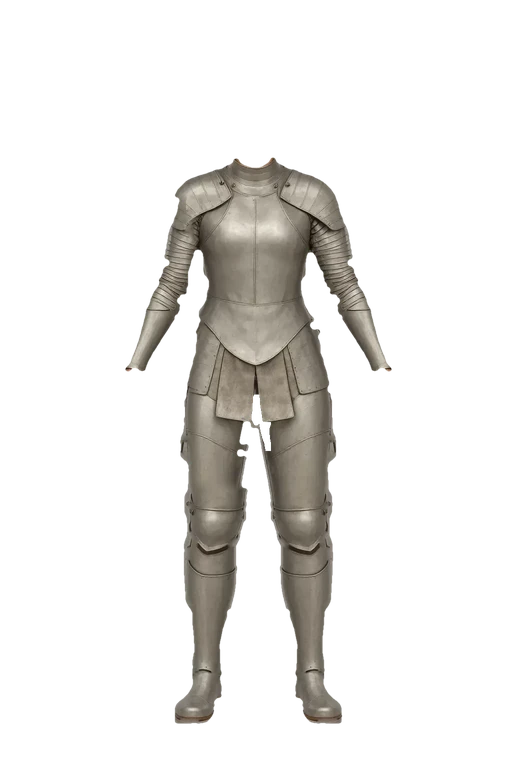
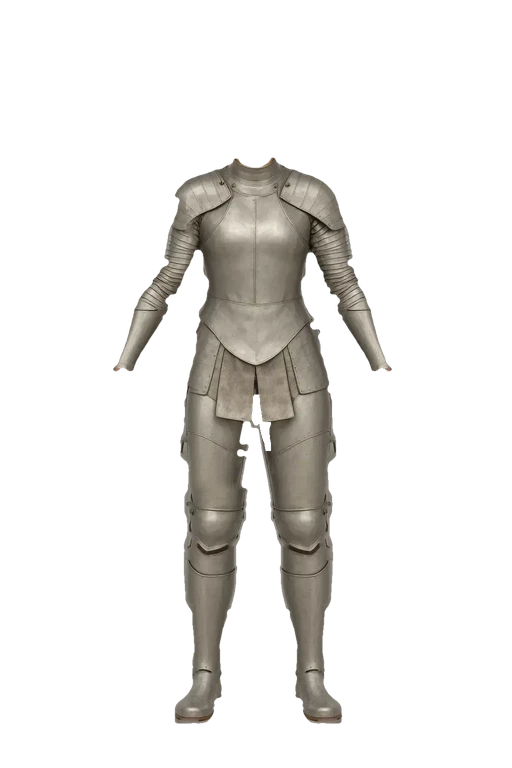
Žena: gotický plát – levé předloktí posunuté na paži, manžety dokreslené, ruka navazuje pod manžetou
Claude-Session: https://claude.ai/code/session_01Q25kmxKucwLhnUcj4Ap4v4

Changed region(s): [[0.2188, 0.3438, 0.375, 0.5]]

diff --git a/nastroje/manzeta_na_ruku.py b/nastroje/manzeta_na_ruku.py
@@ -1,0 +1,35 @@
+"""Konec rukávu (manžeta) zbroje se plynulým zkosením předloktí posune na střed zápěstí těla pod ním; tmavé zuby na okraji pryč.
+python3 nastroje/manzeta_na_ruku.py <vrstva> [rady=90]"""
+import sys
+import numpy as np, cv2
+from PIL import Image
+from pathlib import Path
+D = Path("img/postava"); n = sys.argv[1]; N = int(sys.argv[2]) if len(sys.argv) > 2 else 90
+sx = "zena" if "-zena-" in n else "muz"
+k = np.array(Image.open(D / f"{n}.webp").convert("RGBA")); A = k[..., 3] > 100
+T = np.array(Image.open(D / f"postava-telo-{sx}.webp").convert("RGBA"))[..., 3] > 100
+H, W = A.shape; ys, xs = np.mgrid[:H, :W].astype(np.float32)
+def useky(r):
+    x = np.where(r)[0]
+    if not len(x): return []
+    c = np.where(np.diff(x) > 1)[0]; return list(zip(np.r_[x[0], x[c + 1]], np.r_[x[c], x[-1]]))
+mx = xs.copy()
+for lev in (True, False):
+    sd = (xs[0] < 512 - 190) if lev else (xs[0] > 512 + 190)
+    zz = A & sd[None, :]; zz[:600] = False
+    ye = np.where(zz.any(1))[0].max()
+    cut = lambda y, M: max([u for u in useky(M[y] & sd) ], key=lambda u: u[1] - u[0])
+    a0, b0 = cut(ye - 12, zz); ba, bb = cut(ye + 4, T & ~A)
+    sh = (ba + bb) / 2 - (a0 + b0) / 2
+    w = np.clip((ys - (ye - N)) / N, 0, 1)
+    reg = sd[None, :] & (ys > ye - N - 5) & (ys < ye + 10)
+    mx = np.where(reg, mx - sh * w, mx)
+    print(n, "L" if lev else "P", "konec", ye, "posun", round(sh, 1))
+out = cv2.remap(k, mx.astype(np.float32), ys, cv2.INTER_LINEAR, borderMode=cv2.BORDER_CONSTANT, borderValue=0)
+A2 = out[..., 3] > 100; l = out[..., :3].astype(np.float32).mean(2); med = np.median(l[A2])
+for lev in (True, False):
+    sd = (xs[0] < 512 - 190) if lev else (xs[0] > 512 + 190)
+    zz = A2 & sd[None, :]; zz[:600] = False; ye = np.where(zz.any(1))[0].max()
+    d = zz & (ys > ye - 14) & (l < med * 0.5)
+    out[cv2.dilate(d.astype(np.uint8), np.ones((3, 3), np.uint8)) > 0, 3] = 0
+Image.fromarray(out).save(D / f"{n}.webp", "WEBP", quality=92); Image.fromarray(out).resize((512, 768), Image.LANCZOS).save(D / f"{n}-m.webp", "WEBP", quality=90)

diff --git a/nastroje/predlokti_posun.py b/nastroje/predlokti_posun.py
@@ -1,0 +1,31 @@
+"""Předloktí zbroje (oddělené od trupu) posune vodorovně, aby sedělo na paži těla; posun plynule roste od y0 do y1 a pak drží.
+python3 nastroje/predlokti_posun.py <vrstva> L|P y0 y1 posun [y_konec=760]"""
+import sys
+import numpy as np, cv2
+from PIL import Image
+from pathlib import Path
+D = Path("img/postava"); n, s = sys.argv[1], sys.argv[2]; y0, y1, P = int(sys.argv[3]), int(sys.argv[4]), float(sys.argv[5])
+k = np.array(Image.open(D / f"{n}.webp").convert("RGBA")); A = k[..., 3] > 0
+H, W = A.shape; ys, xs = np.mgrid[:H, :W].astype(np.float32); mx = xs.copy()
+lev = s == "L"
+ye = int(sys.argv[6]) if len(sys.argv) > 6 else 760
+for y in range(y0, ye):
+    r = A[y, :512] if lev else A[y, 512:]
+    x = np.where(r)[0]
+    if not len(x): continue
+    c = np.where(np.diff(x) > 1)[0]
+    if lev:
+        if not len(c): continue
+        g = (x[c[0]] + x[c[0] + 1]) / 2                       # mezera mezi paží a trupem
+        reg = xs[y] < g
+    else:
+        if not len(c): continue
+        g = 512 + (x[c[-1]] + x[c[-1] + 1]) / 2
+        reg = xs[y] > g
+    w = min(1.0, (y - y0) / max(1, y1 - y0)); w = w * w * (3 - 2 * w)
+    reg = reg & (np.abs(xs[y] - (g - P * w)) > 0)
+    mx[y, reg] = xs[y, reg] - P * w
+    # cílové pixely u mezery, kam by se natáhl trup: nechat prázdné
+out = cv2.remap(k, mx, ys, cv2.INTER_LINEAR, borderMode=cv2.BORDER_CONSTANT, borderValue=0)
+Image.fromarray(out).save(D / f"{n}.webp", "WEBP", quality=92); Image.fromarray(out).resize((512, 768), Image.LANCZOS).save(D / f"{n}-m.webp", "WEBP", quality=90)
+print(n, s, "posun", P)

diff --git a/nastroje/manzeta_dokreslit.py b/nastroje/manzeta_dokreslit.py
@@ -1,0 +1,22 @@
+"""Spodní okraj manžet (konců rukávů) zbroje: díry a tmavé zuby se dokreslí barvou okolí, útržky pryč.
+python3 nastroje/manzeta_dokreslit.py <vrstva> [rady=16] [tmave=90]"""
+import sys
+import numpy as np, cv2
+from PIL import Image
+from pathlib import Path
+D = Path("img/postava"); n = sys.argv[1]; N = int(sys.argv[2]) if len(sys.argv) > 2 else 16; TM = float(sys.argv[3]) if len(sys.argv) > 3 else 90
+k = np.array(Image.open(D / f"{n}.webp").convert("RGBA")); H, W = k.shape[:2]; ys, xs = np.mgrid[:H, :W]
+A8 = (k[..., 3] > 20).astype(np.uint8); c, lab, st, _ = cv2.connectedComponentsWithStats(A8)
+k[np.isin(lab, [i for i in range(1, c) if st[i, 4] < 600]), 3] = 0
+A = k[..., 3] > 100; l = k[..., :3].astype(np.float32).mean(2)
+fix = np.zeros((H, W), bool)
+for sd in (xs < 512 - 190, xs > 512 + 190):
+    zz = A & sd & (ys > 600) & (ys < 800); ye = np.where(zz.any(1))[0].max()
+    pas = sd & (ys > ye - N) & (ys <= ye + 2)
+    hull = cv2.morphologyEx(zz.astype(np.uint8), cv2.MORPH_CLOSE, cv2.getStructuringElement(cv2.MORPH_ELLIPSE, (15, 15))) > 0
+    fix |= pas & hull & (~A | (l < TM))
+bgr = cv2.cvtColor(k[..., :3], cv2.COLOR_RGB2BGR)
+f = cv2.cvtColor(cv2.inpaint(bgr, fix.astype(np.uint8), 5, cv2.INPAINT_TELEA), cv2.COLOR_BGR2RGB)
+k[fix, :3] = f[fix]; k[fix, 3] = 255
+Image.fromarray(k).save(D / f"{n}.webp", "WEBP", quality=92); Image.fromarray(k).resize((512, 768), Image.LANCZOS).save(D / f"{n}-m.webp", "WEBP", quality=90)
+print(n, "manžety dokresleny", int(fix.sum()))

diff --git a/nastroje/plat_maska.py b/nastroje/plat_maska.py
@@ -15,11 +15,14 @@ m = (ys >= lim[None, :]) & ~Ajad
 rg = (t[..., 0] - t[..., 1]) / np.maximum(t[..., 0], 1)
 cb = np.where(A.any(0), 1535 - np.argmax(A[::-1], axis=0), -1)
 ruce = (t[..., 3] > 60) & (rg >= .19) & (np.abs(xs - 512) > 190) & (ys > 700) & (ys < 1000)   # holé ruce pod rukávy
-for sd in (xs[0] < 512, xs[0] >= 512):                     # holá ruka až pod koncem rukávu (ne kůže vedle něj)
-    zz = A & (np.abs(xs - 512) > 190) & (ys > 600) & (ys < 1000) & sd[None, :]
-    if zz.any():
-        ye = np.where(zz.any(1))[0].max()
-        ruce &= ~((ys < ye - 6) & sd[None, :])
+for sd in (xs[0] < 512 - 190, xs[0] > 512 + 190):       # holá ruka jen pod čarou spodku manžety (přímka proložená spodkem rukávu)
+    zz = A & sd[None, :] & (ys > 600) & (ys < 1000)
+    if not zz.any(): continue
+    cb2 = np.where(zz.any(0), zz.shape[0] - 1 - np.argmax(zz[::-1], axis=0), -1); ye = cb2.max()
+    cx = np.where(sd & (cb2 > ye - 25))[0]
+    p = np.polyfit(cx, cb2[cx], 1) if len(cx) > 5 else np.array([0., ye])
+    cut = np.polyval(p, xs[0]) - 3
+    ruce &= ~(sd[None, :] & (ys <= cut[None, :]))
 MB = m & ~ruce
 def uloz(mm, p):
     a = (mm * 255).astype(np.uint8); Image.fromarray(np.dstack([np.full_like(a, 255)] * 3 + [a]), "RGBA").save(p, "WEBP", lossless=True)
